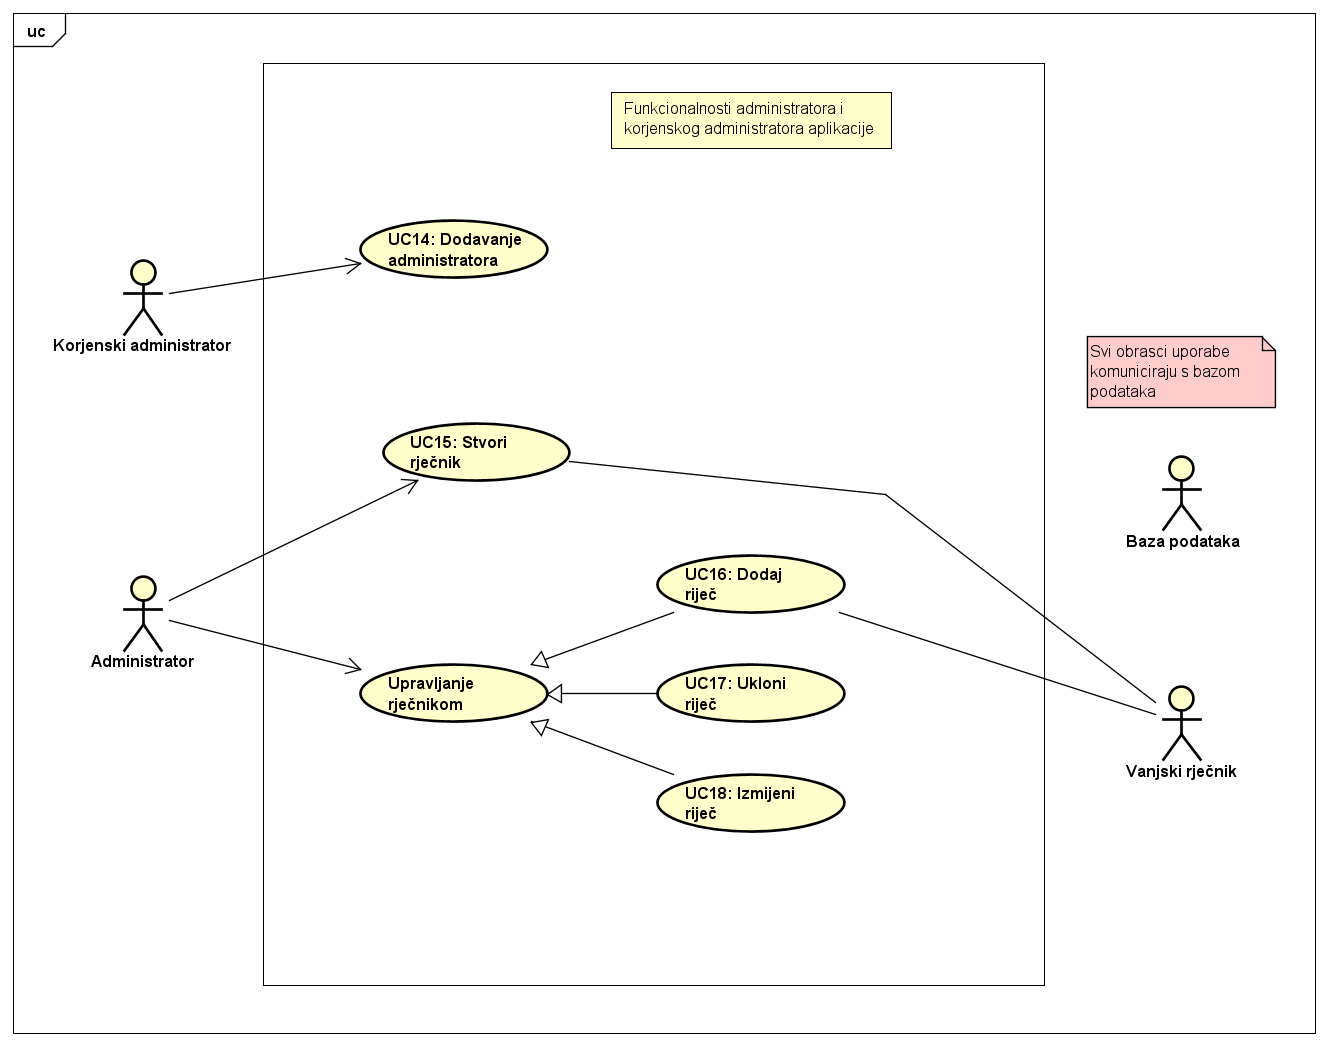
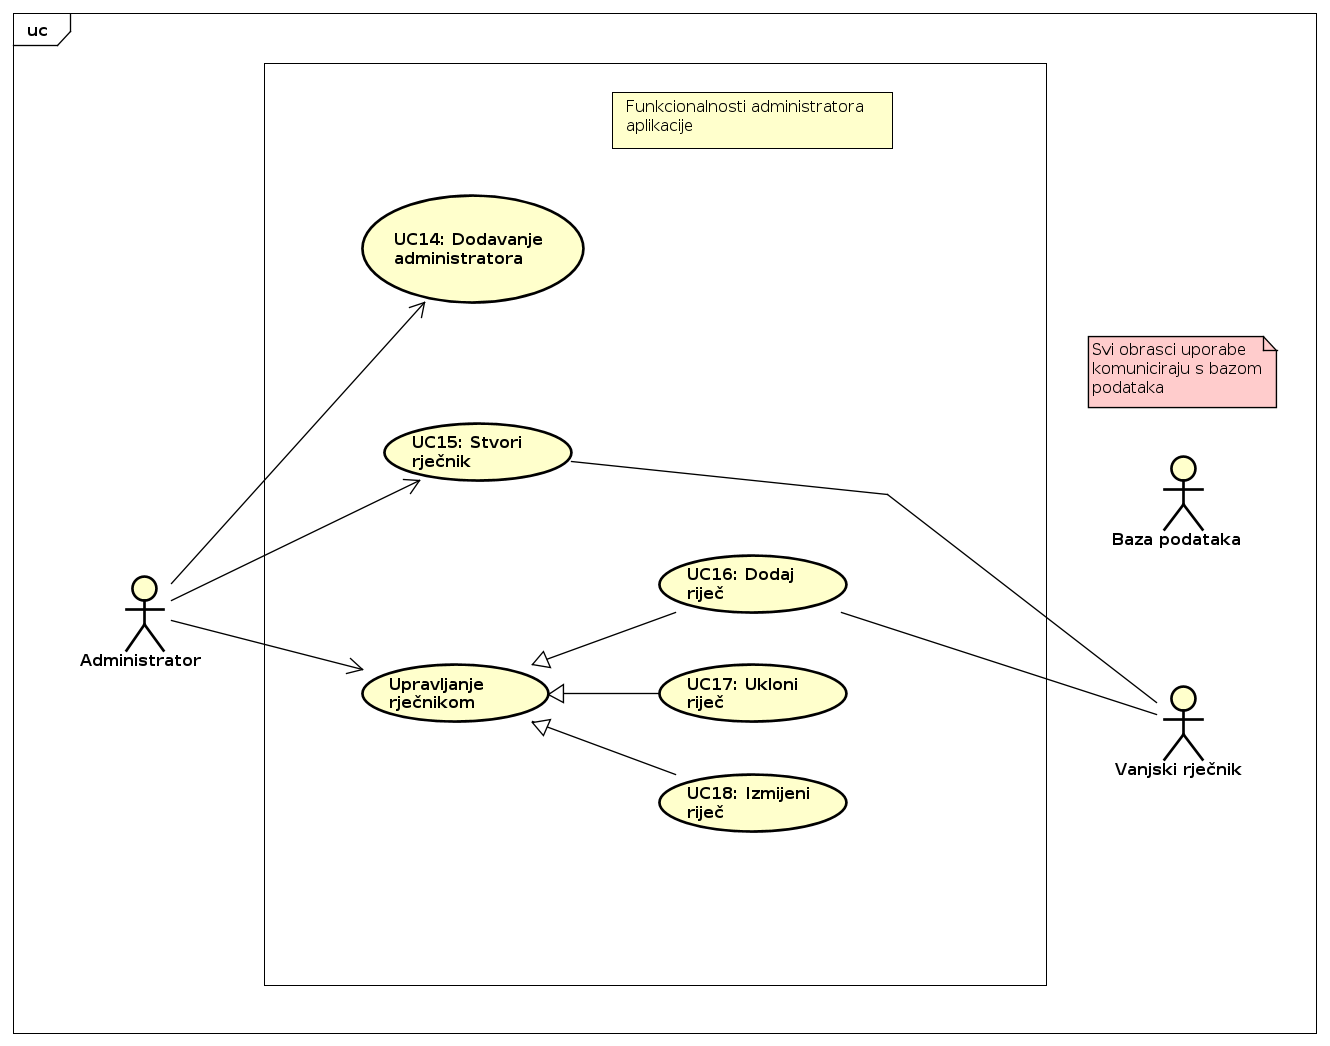
korijenski administrator i administrator spojeni u jednog aktora, popravljen UC1

diff --git a/Dokumentacija/Specifikacija_programske_potpore.tex b/Dokumentacija/Specifikacija_programske_potpore.tex
@@ -49,18 +49,7 @@
 			
 			\begin{packed_enum}
 				
-				\item stvarati nove rječnike
-				\item dodavati i brisati riječi iz rječnika
-				\item uređivati komponente postojećih riječi u rječniku\newline
-				
-			\end{packed_enum}
-			
-			
-			\item  \underbar{Korijenski administrator (inicijator) može:}
-			
-			\begin{packed_enum}
-				
-				\item definirati administratore
+				\item definirati nove administratore
 				\item stvarati nove rječnike
 				\item dodavati i brisati riječi iz rječnika
 				\item uređivati komponente postojećih riječi u rječniku
@@ -109,7 +98,7 @@
 					\noindent \underbar{\textbf{UC1 - Registracija}}
 					\begin{packed_item}
 	
-						\item \textbf{Glavni sudionik: }Učenik
+						\item \textbf{Glavni sudionik: }Korisnik (neregistrirani učenik)
 						\item  \textbf{Cilj:} Stvoriti korisnički račun za pristup sustavu
 						\item  \textbf{Sudionici:} Baza podataka
 						\item  \textbf{Preduvjet:} -
@@ -117,13 +106,13 @@
 						
 						\item[] \begin{packed_enum}
 	
-							\item Učenik odabire gumb za registraciju
-							\item Učenik unosi potrebne korisničke podatke
-							\item Učenik prima potvrdu o registraciji i dobiva inicijalnu lozinku za prijavu u aplikaciju
-							\item Učenik se prijavljuje u aplikaciju s inicijalnom lozinkom
-							\item Aplikacija zahtijeva od učenika da promijeni lozinku
-							\item Učenik upisuje novu lozinku i potvrdu nove lozinke
-							\item Učenik sprema promjene
+							\item Korisnik odabire gumb za registraciju
+							\item Korisnik unosi potrebne korisničke podatke
+							\item Korisnik prima potvrdu o registraciji i dobiva inicijalnu lozinku za prijavu u aplikaciju
+							\item Korisnik se prijavljuje u aplikaciju s inicijalnom lozinkom
+							\item Aplikacija zahtijeva od korisnika da promijeni lozinku
+							\item Korisnik upisuje novu lozinku i potvrdu nove lozinke
+							\item Korisnik sprema promjene
 							\item Baza podataka ažurira korisničke podatke
 						\end{packed_enum}
 						
@@ -134,26 +123,26 @@
 							\item[2.a] Unos već zauzetog e-maila, unos već zauzetog korisničkog imena, unos neispravnog e-maila
 							\item[] \begin{packed_enum}
 								
-								\item Sustav obavještava učenika o neuspjeloj registraciji i vraća ga natrag na stranicu za registraciju
-								\item Učenik mijenja potrebne unesene podatke i završava unos ili odustaje od registracije
+								\item Sustav obavještava korisnika o neuspjeloj registraciji i vraća ga natrag na stranicu za registraciju
+								\item Korisnik mijenja potrebne unesene podatke i završava unos ili odustaje od registracije
 								
 							\end{packed_enum}
 							\item[4.a] Unos krive inicijalne lozinke
 							\item[] \begin{packed_enum}
 								
-								\item Sustav obavještava učenika o unosu krive lozinke
+								\item Sustav obavještava korisnika o unosu krive lozinke
 								
 							\end{packed_enum}
-							\item[6.a] Učenik upisuje krivu potvrdu lozinke
+							\item[6.a] Korisnik upisuje krivu potvrdu lozinke
 							\item[] \begin{packed_enum}
 								
 								\item Sustav obavještava učenika da se prvo upisana lozinka i potvrda lozinke ne podudaraju
 								
 							\end{packed_enum}
-							\item[7.a] Učenik ne sprema promjene
+							\item[7.a] Korisnik ne sprema promjene
 							\item[] \begin{packed_enum}
 								
-								\item Sustav vraća učenika na ponovni upis nove lozinke
+								\item Sustav vraća korisnik na ponovni upis nove lozinke
 
 							\end{packed_enum}
 							
@@ -457,17 +446,17 @@
 					\noindent \underbar{\textbf{UC14 - Dodavanje administratora}}
 					\begin{packed_item}
 	
-						\item \textbf{Glavni sudionik: }Korijenski administrator
+						\item \textbf{Glavni sudionik: }Administrator
 						\item  \textbf{Cilj:} Definirati nove administratore
 						\item  \textbf{Sudionici:} Baza podataka
-						\item  \textbf{Preduvjet:} Korisnik je prijavljen u sustav i dodijeljena su mu prava korijenskog administratora
+						\item  \textbf{Preduvjet:} Korisnik je prijavljen u sustav i dodijeljena su mu prava administratora
 						\item  \textbf{Opis osnovnog tijeka:}
 						
 						\item[] \begin{packed_enum}
 	
-							\item Korijenski administator odabire opciju postavljanja administratora
+							\item Administator odabire opciju postavljanja administratora
 							\item Otvara se prozor za upis korisničkog imena korisnika
-							\item Korijenski administrator upisuje korisničko ime i potvrđuje upis
+							\item Administrator upisuje korisničko ime i potvrđuje upis
 							\item Baza podataka ažurira promjene za određeno korisničko ime
 						\end{packed_enum}
 
@@ -478,7 +467,7 @@
 							\item[3.a] Upisano je neispravno korisničko ime
 							\item[] \begin{packed_enum}
 								
-								\item Sustav obavještava korijenskog administratora o neuspjelom upisu
+								\item Sustav obavještava administratora o neuspjelom upisu
 								
 							\end{packed_enum}
 						\end{packed_item}
@@ -628,7 +617,7 @@
 
 					\begin{figure}[H]
 						\includegraphics[width=\textwidth]{dijagrami/ucdiag2.png} %veličina u odnosu na širinu linije
-						\caption{Dijagram obrasca uporabe, funkcionalnost korijenskog administratora i administratora}
+						\caption{Dijagram obrasca uporabe, funkcionalnost administratora}
 						\label{fig:ucdiag2} %label mora biti drugaciji za svaku sliku
 					\end{figure}
 

diff --git a/Dokumentacija/Opis_projektnog_zadatka.tex b/Dokumentacija/Opis_projektnog_zadatka.tex
@@ -23,7 +23,7 @@ Netočni odgovori ponuđeni studentu se izabiru slučajnim odabirom iz skupine o
 
 Bez obzira koji jezik učili, funkcionalnosti su jednako implementirane za sve jezike. Svaki rječnik ima dodatnu oznaku kako bi se znalo na koji jezik se on odnosi te sadrži riječi samo jednog jezika. Rječnici su grupirani po jeziku te se takvi prikazuju učeniku/korisniku prilikom odabira rječnika. 
 
-Hijerarhijski postoji korijenski administrator sa najvećim ovlastima koje su mu korijenski dodijeljene. On može druge korisničke/učeničke račune „unaprijediti“ u administratore koji će imati jednake ovlasti kao i on sam. Učenički računi ne ovise o administratorskim te se oni sami registriraju i brišu svoj korisnički račun po potrebi.
+U sustavu administratori su korisnici s najvećim ovlastima. Jedan administrator je predefiniran kao korijenski administrator. On može druge korisničke/učeničke račune „unaprijediti“ u administratore koji će imati jednake ovlasti kao i on sam. Učenički računi ne ovise o administratorskim te se oni sami registriraju i brišu svoj korisnički račun po potrebi.
 
 Za kraj opisa projekta proći ćemo kroz aplikaciju po imenu Quizlet, ranije navedenu, te ćemo pogledati njihov način implementacije.
 

diff --git a/Dokumentacija/Dodatak.tex b/Dokumentacija/Dodatak.tex
@@ -54,7 +54,7 @@
 				Opis projektnog zadatka 	&  &  &  &  &  &  & \\ 
 				
 				Funkcionalni zahtjevi       & 1 &  &  &  &  &  &  \\ 
-				Opis pojedinih obrazaca 	& 1 &  &  & 3.5 & 1 &  &  \\ 
+				Opis pojedinih obrazaca 	& 1.5 &  &  & 3.5 & 1 &  &  \\ 
 				Dijagram obrazaca 			&  &  &  &  & 3 &  &  \\ 
 				Sekvencijski dijagrami 		&  & 4 &  &  &  & 3.5 &  \\ 
 				Opis ostalih zahtjeva 		&  &  &  &  &  &  &  \\ 
